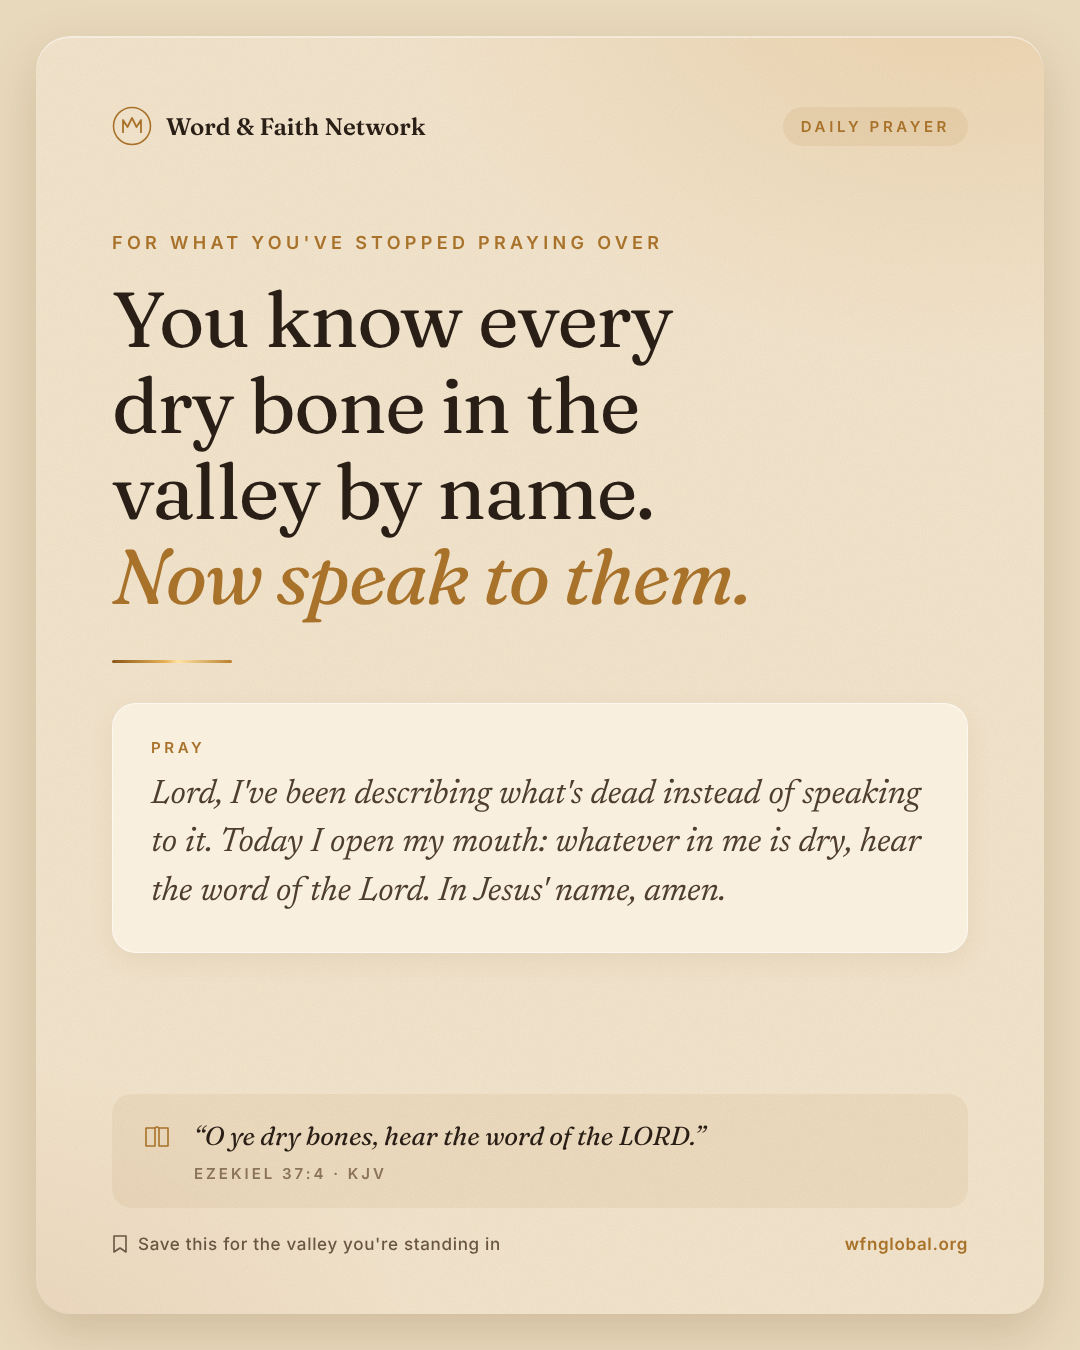
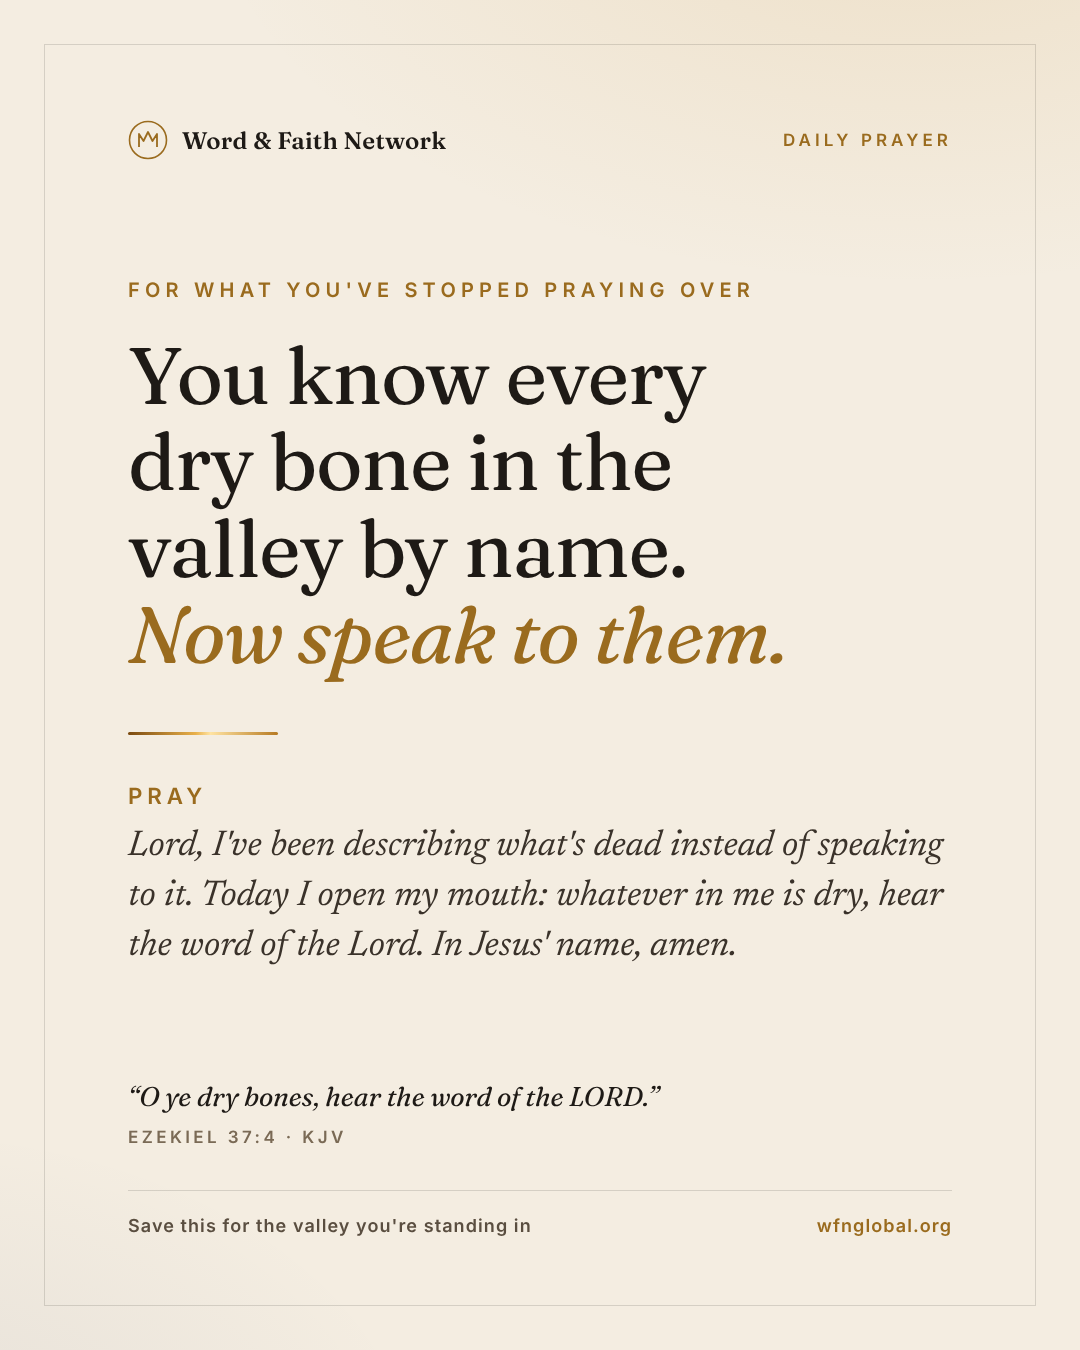
Instagram cards: back to the first redesign (Oladapo's choice) [skip ci]
Claude-Session: https://claude.ai/code/session_01Y9tF72RiN9DyxbZcagcVvW

diff --git a/social/templates/sermon-card.html b/social/templates/sermon-card.html
@@ -1,57 +1,48 @@
 <!doctype html>
 <html><head><meta charset="utf-8">
-<!-- Instagram Today's Sermon card v2 (approved Nov 15, 2026). Rendered by social/generate-card.js. -->
+<!-- Instagram Today's Sermon card v2 (approved Nov 15, 2026: this exact look; do not change colours or style). Rendered by social/generate-card.js. -->
 <style>
 @font-face{font-family:Fraunces;font-weight:400;src:url(../fonts/fraunces-latin-400-normal.woff2)}
 @font-face{font-family:Fraunces;font-weight:600;src:url(../fonts/fraunces-latin-600-normal.woff2)}
 @font-face{font-family:Fraunces;font-style:italic;font-weight:400;src:url(../fonts/fraunces-latin-400-italic.woff2)}
 @font-face{font-family:Inter;font-weight:500;src:url(../fonts/inter-latin-500-normal.woff2)}
 @font-face{font-family:Inter;font-weight:600;src:url(../fonts/inter-latin-600-normal.woff2)}
-:root{--cream:#F5EAD6;--cream2:#E6D6BC;--gold:#E3AE57}
 *{margin:0;padding:0;box-sizing:border-box}
 html,body{width:1080px;height:1350px}
-body{background:#120D0A;font-family:Inter,sans-serif;color:var(--cream);position:relative;overflow:hidden;-webkit-font-smoothing:antialiased}
-.sheet{position:absolute;inset:36px;border-radius:34px;overflow:hidden;
- background:radial-gradient(860px 680px at 100% 0%,rgba(227,150,70,.26),transparent 62%),
-            radial-gradient(900px 760px at -6% 104%,rgba(52,46,104,.62),transparent 64%),
-            linear-gradient(160deg,#241912,#16110F 55%,#1A1420);
- box-shadow:0 1px 0 rgba(255,230,190,.08) inset,0 20px 60px rgba(0,0,0,.45)}
-.grain{position:absolute;inset:0;opacity:.16;mix-blend-mode:screen;pointer-events:none}
+body{background:#0F1020;color:#F3EBDD;font-family:Inter,sans-serif;position:relative;overflow:hidden}
+body::before{content:"";position:absolute;inset:0;background:
+ radial-gradient(900px 700px at 100% 0%,rgba(232,176,74,.20),transparent 60%),
+ radial-gradient(1000px 800px at 0% 100%,rgba(27,42,92,.75),transparent 65%)}
 .seam{position:absolute;inset:0}
-.wrap{position:absolute;inset:0;padding:70px 76px 60px;display:flex;flex-direction:column}
+.wrap{position:absolute;inset:0;padding:116px 112px 104px;display:flex;flex-direction:column}
 .top{display:flex;justify-content:space-between;align-items:center}
 .brand{display:flex;align-items:center;gap:14px;font-family:Fraunces;font-weight:600;font-size:24px}
 .brand svg{width:40px;height:40px}
-.chip{font-weight:600;font-size:15px;letter-spacing:.24em;text-transform:uppercase;color:var(--gold);background:rgba(227,174,87,.1);border:1px solid rgba(227,174,87,.28);border-radius:999px;padding:10px 18px}
-.ref{margin-top:118px;font-weight:600;font-size:18px;letter-spacing:.26em;text-transform:uppercase;color:var(--gold)}
-.title{margin-top:22px;font-family:Fraunces;font-weight:400;font-size:var(--tsize,116px);line-height:1.02;letter-spacing:-.022em;text-wrap:balance}
-.quote{margin-top:56px;background:rgba(255,236,206,.055);border:1px solid rgba(255,236,206,.1);border-radius:24px;padding:34px 40px 36px;max-width:860px}
-.quote svg{display:block;width:34px;height:26px;margin-bottom:14px}
-.quote p{font-family:Fraunces;font-style:italic;font-size:var(--qsize,44px);line-height:1.34;color:var(--cream2);text-wrap:pretty}
-.spacer{flex:1;min-height:24px}
-.foot{display:flex;justify-content:space-between;align-items:center;background:rgba(255,236,206,.06);border-radius:22px;padding:16px 16px 16px 28px;font-weight:500;font-size:19px;letter-spacing:.03em;color:#D9C9AE}
-.foot .btn{background:linear-gradient(180deg,#EDBC68,#D99E45);color:#1E140A;border-radius:999px;padding:15px 28px;font-weight:600;font-size:18px;box-shadow:0 6px 18px rgba(227,150,70,.25)}
+.chip{font-weight:600;font-size:17px;letter-spacing:.24em;text-transform:uppercase;color:#E8B04A;border:1.5px solid rgba(232,176,74,.5);border-radius:999px;padding:10px 18px}
+.ref{margin-top:150px;font-weight:600;font-size:21px;letter-spacing:.26em;text-transform:uppercase;color:#E8B04A}
+.title{margin-top:26px;font-family:Fraunces;font-weight:400;font-size:var(--tsize,116px);line-height:1.0;letter-spacing:-.02em;text-wrap:balance}
+.quote{margin-top:64px;max-width:800px;font-family:Fraunces;font-style:italic;font-size:var(--qsize,44px);line-height:1.32;color:#E9DFCC;text-wrap:pretty;padding-left:34px;border-left:3px solid #E8B04A}
+.spacer{flex:1}
+.foot{display:flex;justify-content:space-between;align-items:center;padding-top:28px;border-top:1.5px solid rgba(243,235,221,.16);font-weight:600;font-size:20px;letter-spacing:.04em}
+.foot .btn{background:#E8B04A;color:#14110C;border-radius:999px;padding:16px 28px;font-size:19px}
 </style></head><body>
-<div class="sheet">
- <svg class="grain" width="100%" height="100%"><filter id="n"><feTurbulence type="fractalNoise" baseFrequency=".9" numOctaves="3" stitchTiles="stitch"/><feColorMatrix values="0 0 0 0 1  0 0 0 0 .9  0 0 0 0 .75  0 0 0 .5 0"/></filter><rect width="100%" height="100%" filter="url(#n)"/></svg>
- <svg class="seam" viewBox="36 36 1008 1278" preserveAspectRatio="none"><defs>
- <linearGradient id="g" x1="0" y1="0" x2="1" y2="1"><stop offset="0" stop-color="#8A5718"/><stop offset=".5" stop-color="#FFDC92"/><stop offset="1" stop-color="#C08834"/></linearGradient>
- <filter id="b"><feGaussianBlur stdDeviation="7"/></filter></defs>
- <path d="M1080 210 L1073.0 223.0 L1062.1 243.7 L1042.2 263.9 L1017.8 275.3 L994.5 301.8 L997.5 324.4 L995.6 342.3 L983.0 369.5 L969.3 381.8 L952.5 395.4 L937.6 412.9 L922.4 424.1 L900.3 442.6 L879.3 461.7 L853.4 485.7 L848.8 506.2 L844.5 521.9 L843.8 540.3 L822.5 560.1 L807.9 585.4 L793.3 601.6 L776.6 623.2 L756.4 652.1" fill="none" stroke="#E3A04A" stroke-width="10" opacity=".3" filter="url(#b)"/>
- <path d="M1080 210 L1073.0 223.0 L1062.1 243.7 L1042.2 263.9 L1017.8 275.3 L994.5 301.8 L997.5 324.4 L995.6 342.3 L983.0 369.5 L969.3 381.8 L952.5 395.4 L937.6 412.9 L922.4 424.1 L900.3 442.6 L879.3 461.7 L853.4 485.7 L848.8 506.2 L844.5 521.9 L843.8 540.3 L822.5 560.1 L807.9 585.4 L793.3 601.6 L776.6 623.2 L756.4 652.1" fill="none" stroke="url(#g)" stroke-width="3.2" stroke-linejoin="round" stroke-linecap="round"/>
- <path d="M995.6 342.3 L1023.6 356.3 L1035.6 382.3" fill="none" stroke="url(#g)" stroke-width="2" stroke-linejoin="round" stroke-linecap="round"/>
- </svg>
- <div class="wrap">
-  <div class="top">
-   <div class="brand"><svg viewBox="0 0 40 40"><circle cx="20" cy="20" r="18.5" fill="none" stroke="#E3AE57" stroke-width="1.6"/><path d="M11 27V14l4.5 7 4.5-9 4.5 9 4.5-7v13" fill="none" stroke="#E3AE57" stroke-width="1.8" stroke-linejoin="round"/></svg>Word &amp; Faith Network</div>
-   <div class="chip">Today's Sermon</div>
-  </div>
-  <div class="ref" id="ref"></div>
-  <h1 class="title" id="title"></h1>
-  <div class="quote"><svg viewBox="0 0 34 26"><path d="M14 2C7 4 2 9 2 16v8h11V13H7c0-5 3-8 8-9zM32 2c-7 2-12 7-12 14v8h11V13h-6c0-5 3-8 8-9z" fill="#E3AE57" opacity=".85"/></svg><p id="quote"></p></div>
-  <div class="spacer"></div>
-  <div class="foot"><span>Read the full sermon · wfnglobal.org</span><span class="btn">Link in bio</span></div>
+<svg class="seam" viewBox="0 0 1080 1350" preserveAspectRatio="none"><defs>
+<linearGradient id="g" x1="0" y1="0" x2="1" y2="1"><stop offset="0" stop-color="#7A4A10"/><stop offset=".5" stop-color="#FFD98A"/><stop offset="1" stop-color="#B67A22"/></linearGradient>
+<filter id="b"><feGaussianBlur stdDeviation="7"/></filter></defs>
+<path d="M1080 210 L1073.0 223.0 L1062.1 243.7 L1042.2 263.9 L1017.8 275.3 L994.5 301.8 L997.5 324.4 L995.6 342.3 L983.0 369.5 L969.3 381.8 L952.5 395.4 L937.6 412.9 L922.4 424.1 L900.3 442.6 L879.3 461.7 L853.4 485.7 L848.8 506.2 L844.5 521.9 L843.8 540.3 L822.5 560.1 L807.9 585.4 L793.3 601.6 L776.6 623.2 L756.4 652.1" fill="none" stroke="#E8B04A" stroke-width="10" opacity=".3" filter="url(#b)"/>
+<path d="M1080 210 L1073.0 223.0 L1062.1 243.7 L1042.2 263.9 L1017.8 275.3 L994.5 301.8 L997.5 324.4 L995.6 342.3 L983.0 369.5 L969.3 381.8 L952.5 395.4 L937.6 412.9 L922.4 424.1 L900.3 442.6 L879.3 461.7 L853.4 485.7 L848.8 506.2 L844.5 521.9 L843.8 540.3 L822.5 560.1 L807.9 585.4 L793.3 601.6 L776.6 623.2 L756.4 652.1" fill="none" stroke="url(#g)" stroke-width="3.2" stroke-linejoin="round" stroke-linecap="round"/>
+<path d="M995.6 342.3 L1023.6 356.3 L1035.6 382.3" fill="none" stroke="url(#g)" stroke-width="2" stroke-linejoin="round" stroke-linecap="round"/>
+</svg>
+<div class="wrap">
+ <div class="top">
+  <div class="brand"><svg viewBox="0 0 40 40"><circle cx="20" cy="20" r="18.5" fill="none" stroke="#E8B04A" stroke-width="1.6"/><path d="M11 27V14l4.5 7 4.5-9 4.5 9 4.5-7v13" fill="none" stroke="#E8B04A" stroke-width="1.8" stroke-linejoin="round"/></svg>Word &amp; Faith Network</div>
+  <div class="chip">Today's Sermon</div>
  </div>
+ <div class="ref" id="ref"></div>
+ <h1 class="title" id="title"></h1>
+ <p class="quote" id="quote"></p>
+ <div class="spacer"></div>
+ <div class="foot"><span>Read the full sermon · wfnglobal.org</span><span class="btn">Link in bio</span></div>
 </div>
 <script>
 const C=window.CONTENT||{};
@@ -60,9 +51,9 @@ document.getElementById("ref").textContent=C.ref||"";
 document.getElementById("title").innerHTML=esc(C.title).replace(/\n/g,"<br>");
 document.getElementById("quote").textContent=C.quote||"";
 const r=document.documentElement.style,tl=(C.title||"").length,ql=(C.quote||"").length;
-let ts=tl<22?118:tl<34?102:88;
+let ts=tl<22?124:tl<34?108:92;
 r.setProperty("--tsize",ts+"px");
-r.setProperty("--qsize",(ql<110?44:ql<160?39:35)+"px");
+r.setProperty("--qsize",(ql<110?46:ql<160?41:36)+"px");
 const wrap=document.querySelector(".wrap");
 for(let i=0;i<20&&wrap.scrollHeight>wrap.clientHeight;i++){ts-=4;r.setProperty("--tsize",ts+"px")}
 document.body.dataset.fit=wrap.scrollHeight<=wrap.clientHeight?"ok":"overflow";

diff --git a/social/templates/prayer-card.html b/social/templates/prayer-card.html
@@ -1,6 +1,6 @@
 <!doctype html>
 <html><head><meta charset="utf-8">
-<!-- Instagram Daily Prayer card v2 (approved Nov 15, 2026). Rendered by social/generate-card.js. -->
+<!-- Instagram Daily Prayer card v2 (approved Nov 15, 2026: this exact look; do not change colours or style). Rendered by social/generate-card.js. -->
 <style>
 @font-face{font-family:Fraunces;font-weight:400;src:url(../fonts/fraunces-latin-400-normal.woff2)}
 @font-face{font-family:Fraunces;font-weight:600;src:url(../fonts/fraunces-latin-600-normal.woff2)}
@@ -8,51 +8,43 @@
 @font-face{font-family:Newsreader;font-style:italic;font-weight:400;src:url(../fonts/newsreader-latin-400-italic.woff2)}
 @font-face{font-family:Inter;font-weight:500;src:url(../fonts/inter-latin-500-normal.woff2)}
 @font-face{font-family:Inter;font-weight:600;src:url(../fonts/inter-latin-600-normal.woff2)}
-:root{--ink:#2A1F16;--ink2:#4E3E30;--gold:#A8722A;--goldsoft:#C9964E;--paper:#F3E6CF;--card:rgba(255,248,236,.62);--line:rgba(110,78,44,.16)}
 *{margin:0;padding:0;box-sizing:border-box}
 html,body{width:1080px;height:1350px}
-body{background:#E9D9BC;font-family:Inter,sans-serif;color:var(--ink);position:relative;overflow:hidden;-webkit-font-smoothing:antialiased}
-.sheet{position:absolute;inset:36px;border-radius:34px;overflow:hidden;
- background:radial-gradient(900px 640px at 92% -6%,rgba(214,150,62,.22),transparent 62%),
-            radial-gradient(800px 600px at -8% 108%,rgba(176,96,48,.12),transparent 60%),var(--paper);
- box-shadow:0 2px 0 rgba(255,255,255,.5) inset,0 18px 50px rgba(92,58,24,.18)}
-.grain{position:absolute;inset:0;opacity:.22;mix-blend-mode:multiply;pointer-events:none}
-.wrap{position:absolute;inset:0;padding:70px 76px 60px;display:flex;flex-direction:column}
+body{background:#F4EDE1;color:#1E1A16;font-family:Inter,sans-serif;position:relative;overflow:hidden}
+body::before{content:"";position:absolute;inset:0;background:
+ radial-gradient(1200px 700px at 85% -10%,rgba(201,150,62,.16),transparent 60%),
+ radial-gradient(900px 600px at -10% 110%,rgba(27,42,92,.07),transparent 60%);}
+.frame{position:absolute;inset:44px;border:1.5px solid rgba(30,26,22,.14)}
+.wrap{position:absolute;inset:44px;padding:76px 84px 70px;display:flex;flex-direction:column}
 .top{display:flex;justify-content:space-between;align-items:center}
-.brand{display:flex;align-items:center;gap:14px;font-family:Fraunces;font-weight:600;font-size:24px;color:var(--ink)}
+.brand{display:flex;align-items:center;gap:14px;font-family:Fraunces;font-weight:600;font-size:24px;letter-spacing:.01em}
 .brand svg{width:40px;height:40px}
-.chip{font-weight:600;font-size:15px;letter-spacing:.24em;text-transform:uppercase;color:var(--gold);background:rgba(168,114,42,.1);border-radius:999px;padding:10px 18px}
-.kicker{margin-top:86px;font-weight:600;font-size:18px;letter-spacing:.24em;text-transform:uppercase;color:var(--gold)}
-.truth{margin-top:24px;font-family:Fraunces;font-weight:400;font-size:var(--tsize,78px);line-height:1.1;letter-spacing:-.018em;color:var(--ink);text-wrap:balance}
-.truth em{font-style:italic;color:var(--gold)}
-.seam{margin:40px 0 0;height:3px;width:120px;border-radius:3px;background:linear-gradient(90deg,#8A5718,#E7B358 45%,#FFE3A6 55%,#B9802E)}
-.pray{margin-top:40px;background:var(--card);border:1px solid rgba(255,255,255,.55);border-radius:24px;padding:34px 38px 36px;box-shadow:0 8px 26px rgba(110,72,30,.08)}
-.pray b{display:block;font-weight:600;font-size:15px;letter-spacing:.24em;text-transform:uppercase;color:var(--gold);margin-bottom:14px}
-.pray p{font-family:Newsreader;font-style:italic;font-size:var(--psize,38px);line-height:1.42;color:var(--ink2);text-wrap:pretty}
-.spacer{flex:1;min-height:24px}
-.verse{display:flex;gap:22px;align-items:flex-start;background:rgba(168,114,42,.08);border-radius:20px;padding:24px 30px}
-.verse svg{flex:none;width:30px;height:30px;margin-top:4px}
-.verse p{font-family:Fraunces;font-style:italic;font-size:26px;line-height:1.42;color:var(--ink)}
-.verse span{display:block;margin-top:8px;font-family:Inter;font-style:normal;font-weight:600;font-size:15px;letter-spacing:.2em;text-transform:uppercase;color:#8A7358}
-.foot{margin-top:26px;display:flex;justify-content:space-between;align-items:center;font-weight:500;font-size:17px;letter-spacing:.04em;color:#6A5642}
-.foot i{font-style:normal;font-weight:600;color:var(--gold)}
-.foot .save{display:flex;align-items:center;gap:10px}
+.chip{font-weight:600;font-size:17px;letter-spacing:.24em;text-transform:uppercase;color:#9A6B1E}
+.kicker{margin-top:118px;font-weight:600;font-size:20px;letter-spacing:.26em;text-transform:uppercase;color:#9A6B1E}
+.truth{margin-top:30px;font-family:Fraunces;font-weight:400;font-size:var(--tsize,78px);line-height:1.08;letter-spacing:-.015em;text-wrap:balance}
+.truth em{font-style:italic;color:#9A6B1E}
+.seam{margin:54px 0 46px;height:3px;width:150px;background:linear-gradient(90deg,#7A4A10,#E8B04A 45%,#FFE3A1 55%,#B67A22);border-radius:2px}
+.pray{font-family:Newsreader;font-style:italic;font-size:var(--psize,38px);line-height:1.38;color:#3A322A;text-wrap:pretty}
+.pray b{font-family:Inter;font-style:normal;font-weight:600;font-size:.62em;letter-spacing:.22em;text-transform:uppercase;color:#9A6B1E;display:block;margin-bottom:12px}
+.spacer{flex:1}
+.verse{font-family:Fraunces;font-style:italic;font-size:27px;line-height:1.4;color:#1E1A16}
+.verse span{display:block;margin-top:10px;font-family:Inter;font-style:normal;font-weight:600;font-size:17px;letter-spacing:.2em;text-transform:uppercase;color:#7A6A55}
+.foot{margin-top:40px;padding-top:24px;border-top:1.5px solid rgba(30,26,22,.14);display:flex;justify-content:space-between;font-weight:600;font-size:18px;letter-spacing:.06em;color:#5A4E40}
+.foot i{font-style:normal;color:#9A6B1E}
 </style></head><body>
-<div class="sheet">
- <svg class="grain" width="100%" height="100%"><filter id="n"><feTurbulence type="fractalNoise" baseFrequency=".85" numOctaves="3" stitchTiles="stitch"/><feColorMatrix values="0 0 0 0 .45  0 0 0 0 .32  0 0 0 0 .2  0 0 0 .55 0"/></filter><rect width="100%" height="100%" filter="url(#n)"/></svg>
- <div class="wrap">
-  <div class="top">
-   <div class="brand"><svg viewBox="0 0 40 40"><circle cx="20" cy="20" r="18.5" fill="none" stroke="#A8722A" stroke-width="1.6"/><path d="M11 27V14l4.5 7 4.5-9 4.5 9 4.5-7v13" fill="none" stroke="#A8722A" stroke-width="1.8" stroke-linejoin="round"/></svg>Word &amp; Faith Network</div>
-   <div class="chip" id="chip">Daily Prayer</div>
-  </div>
-  <div class="kicker" id="kicker"></div>
-  <h1 class="truth" id="truth"></h1>
-  <div class="seam"></div>
-  <div class="pray"><b>Pray</b><p id="pray"></p></div>
-  <div class="spacer"></div>
-  <div class="verse"><svg viewBox="0 0 30 30"><path d="M4 6h9v18H4zM17 6h9v18h-9z" fill="none" stroke="#A8722A" stroke-width="1.6" stroke-linejoin="round"/><path d="M13 6c1.2-1.4 2.8-1.4 4 0" fill="none" stroke="#A8722A" stroke-width="1.6"/></svg><p id="verse"></p></div>
-  <div class="foot"><span class="save"><svg width="16" height="18" viewBox="0 0 16 18"><path d="M2 1h12v16l-6-4-6 4z" fill="none" stroke="#6A5642" stroke-width="1.6" stroke-linejoin="round"/></svg><span id="save">Save this · Share it with someone</span></span><i>wfnglobal.org</i></div>
+<div class="frame"></div>
+<div class="wrap">
+ <div class="top">
+  <div class="brand"><svg viewBox="0 0 40 40"><circle cx="20" cy="20" r="18.5" fill="none" stroke="#9A6B1E" stroke-width="1.6"/><path d="M11 27V14l4.5 7 4.5-9 4.5 9 4.5-7v13" fill="none" stroke="#9A6B1E" stroke-width="1.8" stroke-linejoin="round"/></svg>Word &amp; Faith Network</div>
+  <div class="chip" id="chip">Daily Prayer</div>
  </div>
+ <div class="kicker" id="kicker"></div>
+ <h1 class="truth" id="truth"></h1>
+ <div class="seam"></div>
+ <p class="pray" id="pray"></p>
+ <div class="spacer"></div>
+ <p class="verse" id="verse"></p>
+ <div class="foot"><span id="save">Save this · Share it with someone</span><i>wfnglobal.org</i></div>
 </div>
 <script>
 const C=window.CONTENT||{};
@@ -61,14 +53,14 @@ document.getElementById("kicker").textContent=C.kicker||"";
 let t=esc(C.truth);
 if(C.accent)t=t.replace(esc(C.accent),"<em>"+esc(C.accent)+"</em>");
 document.getElementById("truth").innerHTML=t;
-document.getElementById("pray").textContent=C.prayer||"";
+document.getElementById("pray").innerHTML="<b>Pray</b>"+esc(C.prayer);
 document.getElementById("verse").innerHTML="“"+esc(C.verse&&C.verse.text)+"”<span>"+esc(C.verse&&C.verse.ref)+" · KJV</span>";
 if(C.save)document.getElementById("save").textContent=C.save;
 if(C.chip)document.getElementById("chip").textContent=C.chip;
 const r=document.documentElement.style,tl=(C.truth||"").length,pl=(C.prayer||"").length;
-let ts=tl<45?90:tl<70?78:tl<95?68:60;
+let ts=tl<45?92:tl<70?80:tl<95?70:62;
 r.setProperty("--tsize",ts+"px");
-r.setProperty("--psize",(pl<130?38:pl<190?34:31)+"px");
+r.setProperty("--psize",(pl<130?40:pl<190?36:32)+"px");
 const wrap=document.querySelector(".wrap");
 for(let i=0;i<20&&wrap.scrollHeight>wrap.clientHeight;i++){ts-=3;r.setProperty("--tsize",ts+"px")}
 document.body.dataset.fit=wrap.scrollHeight<=wrap.clientHeight?"ok":"overflow";
